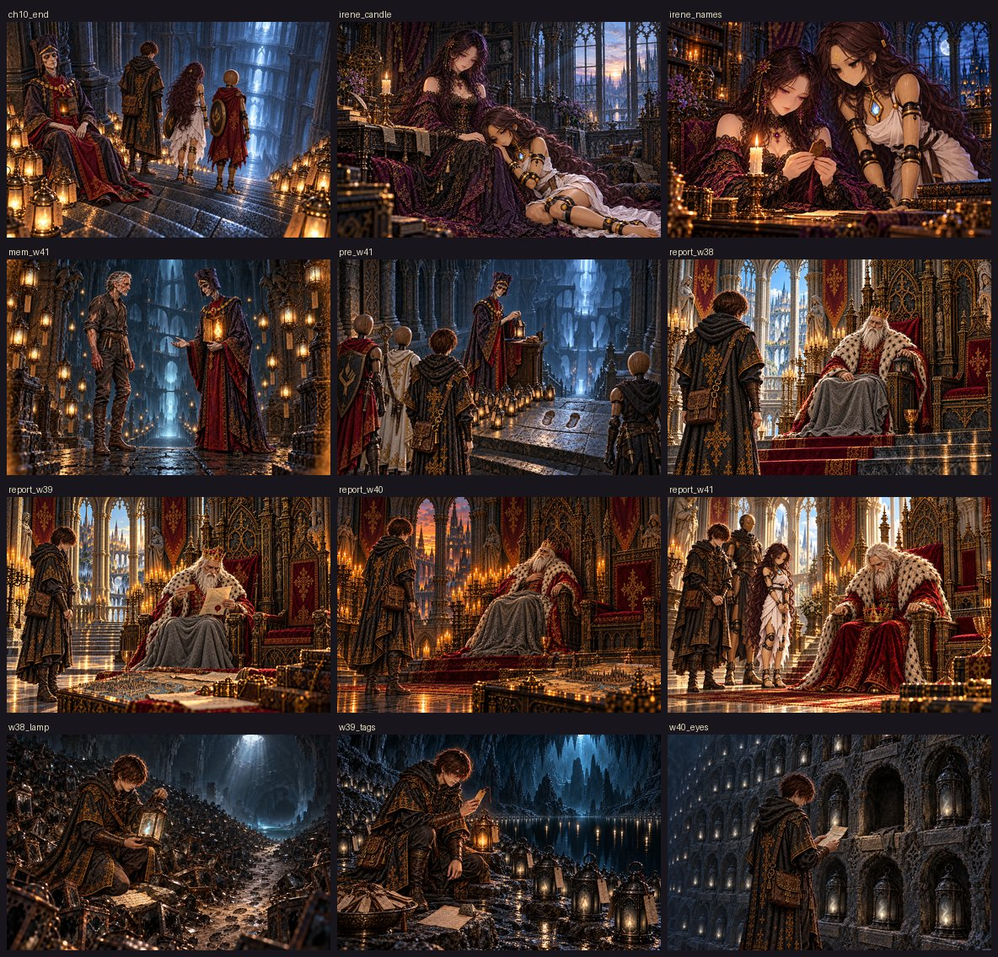
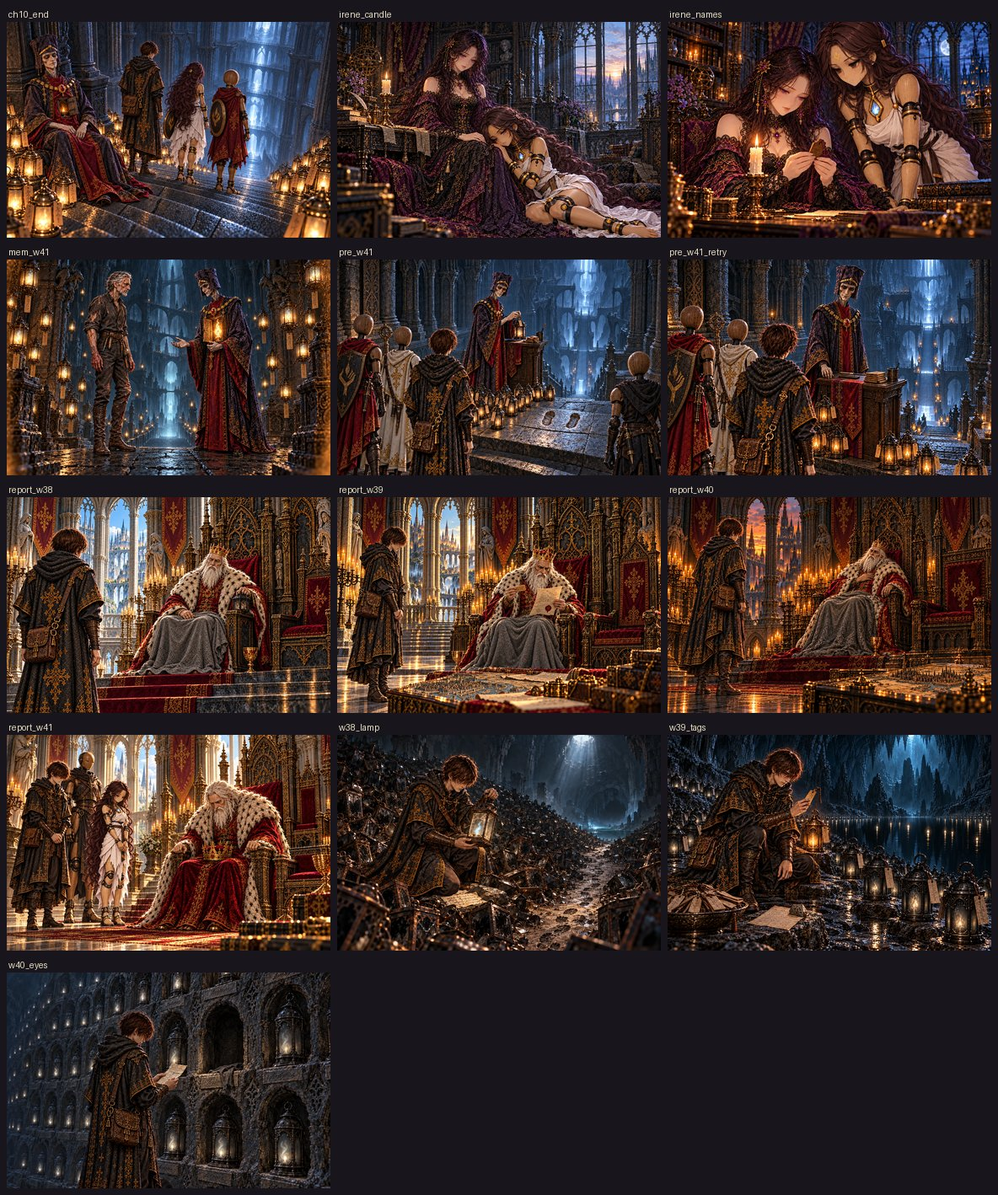
宰相への再挑戦「ふたたび階段の前で」に専用イラストを追加

diff --git a/src/archive-stories.js b/src/archive-stories.js
@@ -666,6 +666,11 @@ export const ARCHIVE_STORIES = [
     "湖の岸に並んでいた札の字。灯籠の山に毎日残されていた足跡。壁龕に名を刻んだ手。三つの手がかりが、ひとりの背中に重なった。宰相モルデンは書き終えた札を灯籠に結び、筆を置いて振り返った。",
     "師はもう、帰るために歩いてはいない。灯たちを失いたくないのなら戻れ。モルデンはそう告げて、三百年立ち続けた石段の前に立った。足もとの石は、ちょうど彼の靴の形にすり減っていた。",
   ]),
+  scene("pre_w41_retry", 10, "ふたたび階段の前で", beat("pre_w41_retry"), "cavern", "moldernBrush", [
+    "大伽藍の階段へ戻ると、モルデンは書見台の筆を置いた。前に来た時よりも、木札の束が少し厚くなっていた。隊を立て直している間も、彼はここで名を書き続けていたのだ。",
+    "砕けた器を直し、灯を戻してまで師に会いに来た。その思いを認めながら、宰相は道を開かなかった。弟子たちの灯を取り戻せる仕組みこそ、師が変えようとしているものなのだという。",
+    "戻る理由があるからこそ、通せない。モルデンの言葉を聞き、弟子はふたたび階段の前に立った。失ったものを取り戻して歩く自分の旅も、師の目指す先と無関係ではなかった。",
+  ]),
   scene("mem_w41", 10, "階段の前のふたり", beat("mem_w41"), "cavern", "deepStairs", [
     "大伽藍の最奥で膝をついた宰相の灯から、一年前の記憶が流れこんできた。さらに下へ続く階段の前で、モルデンと師が向かい合っていた。",
     "底に眠るものを手にすれば、あらゆる命を思うままにできる魂の王になる。師はそれを取りに来たと言った。器へ戻す術がある限り、魂は何度でも戻され、腐るまで使われる。だから巡りに限りを書き入れ、生き切った魂を誰も引き止められないようにする、と。",

diff --git a/src/game.js b/src/game.js
@@ -12031,9 +12031,11 @@ function playBossPrelude(id, done) {
   const p = bossPreludeFor(id);
   if (!p) return false;
   const w = worldState();
-  const photo = storyImage(p.def === BOSS_PRELUDES[id].first ? p.key : null);
+  const sceneId = p.def === BOSS_PRELUDES[id].first ? p.key : p.key + "_retry";
+  const photo = storyImage(sceneId);
   UI.playStoryChain([{ title: p.def.title, lines: storyLines(p.def.lines), art: p.def.art, photo, who: "none", kicker: "主との対面", btnLabel: "挑む" }], () => {
     w.beats[p.key] = 1;
+    w.beats[sceneId] = 1;
     autosave(true);
     if (done) done();
   });
@@ -18021,7 +18023,7 @@ const testScenes = [
     Object.entries(defs).map(([id, def]) => ({ ...def, id: group + ":" + id, kind: "story", group: label, name: label + "・" + def.title, who: ["cell", "memory", "rematch"].includes(group) ? "none" : "king",
       photo: storyImage(({ cell: id, late: id, memory: "mem_" + id, report: "report_" + id, chapter: "ch" + id + "_end" })[group]) }))),
   ...Object.entries(BOSS_PRELUDES).flatMap(([id, pre]) => ["first", "retry"].filter((k) => pre[k]).map((k) => ({ ...pre[k], id: `prelude:${id}_${k}`, kind: "story", group: "主との対面",
-    name: `主との対面・${pre[k].title}`, who: "none", photo: k === "first" ? storyImage("pre_" + id) : null }))),
+    name: `主との対面・${pre[k].title}`, who: "none", photo: storyImage("pre_" + id + (k === "retry" ? "_retry" : "")) }))),
   ...IRENE_BEATS.map((def) => ({ ...def, id: "irene:" + def.id, kind: "story", group: "館の語り", name: "館の語り・" + def.title, who: "irene", photo: storyImage(def.id) })),
   { ...MINE_PASS, id: "minePass", kind: "story", name: MINE_PASS.title, photo: storyImage("minePass") },
 ];

diff --git a/src/storyimages.js b/src/storyimages.js
@@ -121,6 +121,7 @@ export const STORY_IMAGES = {
   w40_eyes: "art/story/chapter10/w40_eyes.webp",
   report_w40: "art/story/chapter10/report_w40.webp",
   pre_w41: "art/story/chapter10/pre_w41.webp",
+  pre_w41_retry: "art/story/chapter10/pre_w41_retry.webp",
   mem_w41: "art/story/chapter10/mem_w41.webp",
   report_w41: "art/story/chapter10/report_w41.webp",
   irene_candle: "art/story/chapter10/irene_candle.webp",

diff --git a/sw.js b/sw.js
@@ -210,6 +210,7 @@ const ASSETS = [
   "./art/story/chapter10/w40_eyes.webp",
   "./art/story/chapter10/report_w40.webp",
   "./art/story/chapter10/pre_w41.webp",
+  "./art/story/chapter10/pre_w41_retry.webp",
   "./art/story/chapter10/mem_w41.webp",
   "./art/story/chapter10/report_w41.webp",
   "./art/story/chapter10/irene_candle.webp",

diff --git a/CLAUDE.md b/CLAUDE.md
@@ -164,7 +164,7 @@ The old linear 勅命 (one dungeon after another, D1-100 by layer) was replaced 
 
 イレーヌの初訪問の挨拶は「オルド様のお弟子さま。お待ちしておりました。」「わたしはイレーヌ。」とする。自己紹介に「です」を足さず、ほかの台詞の丁寧語や親しさによる変化は保つ。
 序盤の案内: 地下墓地の最深部でランタン未発見なら、踏破前の確認で同階の探索を促す。ロアダルは辺境の街で、地下墓地はロアダルの墓所の下。**王宮はロアダルの離宮** (2026-10-11 ユーザーの決定): 王の本来の玉座は王都にあり、王は長く王都の玉座を空けてロアダルの離宮に住む (表向きは静養、王都の政は宰相府が王の名で回してきた)。大樹の幹が至るのは王都の玉座の真下 — 物語の文では「この玉座」と言わない (画面の名前「王宮」はそのまま)。回廊の印で開く取水口は推奨Lv18〜21の寄り道として、修道院を先に追う案内を発見時・出撃画面に表示する。修道院の報告は収集品3種類の奉納と宝物庫での通行証受け取りを明示する。付け替え・融合の手ほどきは各2ページに短縮 (魂の区分の「魂の扱い方」ボタンは 2026-10 にユーザーの指示で削除)。主の記憶は読了時に閲覧済みを保存し、中断した未読の記憶は冒険再開時・王への報告前に再表示する。
-**Story (`src/story.js`)**: 王への踏破報告は `REPORTS[id].need` の手がかり発見が必要 (地下墓地 `w01`: 師のランタン `w01_lantern`、回廊 `w02`: 地下4階の師の印 `w02_sigil`、地下牢 `w07`: セラの頭 `w07_sera`)。未発見でも踏破記録は残し、目標・勅命・踏破の祝祭で必要な手がかりの階の探索を案内する。報告待ちでも必要な手がかりが未発見なら再出撃でき、発見後は再踏破せずに報告できる。別の迷宮を踏破しても報告待ちは上書きせず、未報告の踏破記録から次の報告を復元する。館の「セラの胴」は腕・頭・胴のすべての発見を必要とする (`IRENE_BEATS.need` は配列なら全条件)。 the player is 操霊師オルド's apprentice; Ordo vanished in the labyrinths a year ago, his mansion's candle (his soul-lamp) still burns, and **イレーヌ is a 人業 Ordo made** (revealed in chapter 1). Chapter 2: the fort's garrison was offered to the 「魂脈」 with the fort; the prison walls bear the names of past royal 操霊師 (Ordo's master ヴェルナー), Sera's head lies in the deepest cell (Irene keeps it by the candle — `irene_sera`), and the fort lord's memory shows the abandonment order sealed by the crown and the 宰相府 — the king then admits **he is the 「先代」 himself, kept alive a hundred years by the 魂脈** (the 宰相 never ages either). Chapter 3: the 魂脈 are the roots of a soul-eating tree planted 300 years ago by 宰相モルデン; Ordo's master ヴェルナー escaped the prison and died in a hut in the underground forest (`w11_hut`), Sera's torso lies in the sap bed (`irene_torso`), and the tree lord's memory shows Ordo cutting a root and climbing the hollow trunk toward the capital — the trunk ends under the throne. Chapter 4: under the capital lies the old capital, sunk 300 years ago; the young priest モルデン planted the seedling in the great temple's spring and drowned the priest-king's city when ordered to pull it out (the 壁画 `w15_mural` shows Moldern unchanged). Sera's legs lie in the baptism cistern (`w16_legs`) → the Irene beat `irene_sera_wake` (needs lantern + arm + head + torso + legs) puts the lantern's soul-fire into the reassembled body and **セラ joins as a companion** (below). The priest-king's memory: Ordo realized the heart is the cauldron that boils the sap, and went down to the fire cave. Chapter 5: the fire cave boils the sap into the king's elixir with the souls swallowed by the dungeons; burned husks of Moldern-faced dolls (`w19_husks`), the elixir ledger (`w20_cup`); the 業火の主's memory reveals **Moldern is a 人業 — the first doll made by 「最初の操霊師」** more than 300 years ago (never 「三百年前に作られた」 — 300 years ago is when he planted the seedling; his line 「主の命は一つ。『魂を集めよ』」 is his own paraphrase of the founder's order 「魂を、腐らせるな」, noticed in chapter 7 — user decision 2026-10-11) — and Ordo fell into the bottomless pit under the cauldron, 奈落 (his candle still burns). Chapter 6: the wind blowing up from 奈落 freezes falling souls onto ice ledges round the shaft; Ordo was caught there and broke a leg (his coat `w22_coat`); eleven of the twelve royal 操霊師 the king imprisoned (Moldern threw them into 奈落 and reported them executed) sit frozen in ice pillars, the twelfth pillar — Werner's — empty (`w23_names`); the aurora is souls held in the ice, which is a dam (`w24_aurora`); the 氷結回廊の主's memory: 凍王イザーク, the first royal 操霊師 300 years ago, saw the old lamp in Moldern's chest, froze 奈落 with himself as the dam, caught every falling soul (Ordo too) and told Ordo that **the first 操霊師 is the founder of their own lineage** (the lamp-craft is theirs alone — Irene's beat `irene_lineage`: her lamp, Sera's and Moldern's share it); Ordo, his leg set in ice, went on down to the swamp where the thawed water drains. Chapter 7: the meltwater falls into a swamp of rotted souls at the bottom of 奈落; Ordo, his ice splint melted, re-splinted his leg with the arms of a discarded doll (`w26_splint`); the valley holds heaps of unfinished dolls with the lineage crest (灯を掌に載せた手) — the first 操霊師 made and threw them away until only Moldern was finished (`w27_crest` → Irene beat `irene_crest`, Sera's rank +1); Ordo's antidote note (`w28_note`); the よどみの主's memory: on the swamp island's 灯の工房 the dying first 操霊師 ordered his only finished doll 「魂を、腐らせるな。落ちてくる魂を、二度とこの沼へ落とすな。そのためなら、何をしてもよい」 — the tree, the elixir and the cauldron were Moldern keeping that order; a year ago Ordo read the founder's diary there (「命じた者は死んだ。命令だけが、三百年、生き残った」) and climbed the storm-ringing tower behind the workshop; Irene's beat `irene_order` contrasts her own order 「灯を絶やすな」. Chapter 8: the tower behind the workshop is the founder's 「煙突」 to send fallen souls back to the sky; Ordo burned his walking stick (carved from the doll-arm splint) on the spiral stairs (`w30_stick`); the bell tower's bells carry the lineage crest and the inscription 「この鐘が鳴るたび、ひとつの魂が空へ還る」 with its continuation scraped off (`w31_bell` → Irene beat `irene_bell`: Ordo hummed the bells' tune); Ordo's copper lightning-guard note says lightning is the fire of bound souls (`w32_rod`); the 嵐の主's memory: the founder and his young doll built the tower; after the founder died the doll (Moldern) lit the great lighthouse at the top, the souls rose — and came back down as rain into the swamp and rotted (「還しても、雨になって落ちてくる。落ちれば、腐る」), so he put out the lighthouse and set chain-armed statues (魂縛りの像) to bind the rising souls; the bound souls became the storm that weighed on the kingdom's sky (and drew the fort's endless thunderstorm). A year ago Ordo smashed one statue (「巡りを止めたから、腐るのではないか」) and crossed the long stone bridge beyond the clouds toward a sunken stone amphitheatre, 「主の生まれた町は、あの橋の向こうか」. Defeating the boss clears the capital's sky (the king's first blue sky in his hundred years) and stops the fort's thunderstorm; Irene's beat `irene_rain` (rain = souls coming home). Chapter 9: beyond the bridge lies the ash-buried arena town above the clouds; the bridge was the prisoners' road (Ordo's scorched glove tied to a shackle ring `w34_glove`); under the arena, racks of numbered soul-lanterns — fallen gladiators' souls were put into lanterns and new bodies to fight again and again, and the lantern craft is older than the lineage's (`w35_lamps`); under the stands, a child's nook with a tiny wooden doll holding lantern glass and the lineage crest carved by a child (`w36_nook` → Irene beat `irene_firstdoll`, Sera's rank +1 → 5); the 闘技場の支配者's memory: **the founder was the arena's 灯番の子 (lantern-tending orphan)**; his friend's soul, reused thirteen times, forgot names and rotted in a blackened lantern thrown into the pit in the arena's centre (「魂は、休ませないと腐る」); the boy toppled the lantern racks and fled across the bridge with the craft notebook, the spilled soul-fire burned the town, and the showman put his own soul in a lantern and an empty armour (「試合は、終わらせぬ」). A year ago Ordo concluded 「休ませずに使い続けるから、腐る」 — Moldern is doing exactly what the founder fled — and climbed down the pit to find where discarded souls went. Irene's beat `irene_rest` ties this to 魂の安定度 (Ordo's rule of resting dolls). Chapter 10 (the end of part 1): under the arena's pit lies a vast cavern where blackened lanterns have piled up for millennia; Ordo polished one lantern — the soul inside still didn't remember its name, and someone's footprints walk the heaps every day (`w38_lamp`); on the black lake shore, every lantern carries a wooden name tag in Moldern's handwriting — he has been naming nameless souls for 300 years (`w39_tags` → Irene beat `irene_names`); the rock grotto is a grave of niches with carved names, and Ordo's note 「それでも、私は底へ行く」 (`w40_eyes`); at the bottom of the cavern-cathedral **宰相モルデン is the boss** (`bs_moldern`, w41): his memory shows him guarding the stairs down for 300 years because the founder told him not to touch what sleeps below — **whoever takes it becomes 「魂の王」, able to do as they please with every life** — and Ordo, a year ago, saying he came to take it (「命令では、誰も救えなかった」「巡りそのものを書き換える…そのためには、王がいる」) while Moldern answered that whoever rules life will use it up; Moldern couldn't stop him, asks 「わたしは、正しかったのでしょうか」 and falls asleep, his lamp small but lit. The king refuses to judge and tells the apprentice to decide with their own eyes; Irene's beat `irene_candle` asks whether keeping Ordo's candle is still right (she keeps it — to meet him again). `CHAPTER_END[10]` = 「第一部 完」. **第十章の結びの改め (2026-10-15 ユーザーの採用した筋)**: モルデンの本当の目的 = 善悪を問わず「魂の王」が生まれるのを防ぐこと (善意から始めても、一人があらゆる命を思うままにできれば他者の意思を奪う — 自分も「魂を守れ」という正しい言いつけから旧都を沈めた)。師の秘密 = 魂が生き切った後、誰にも引き止められず休める世界のため、魂を何度でも器へ戻せる仕組みに限りを書き入れる (イレーヌ・セラ・隊の人業にも及ぶ。大事な者だけを例外にしない。本人の声を聞く仕組みは「書けるかどうか、まだ分からん」— 第二部の論点)。人業がすぐ消える・復活の回数制限などのゲーム上の罰は作らない。**主との対面** (`BOSS_PRELUDES` in story.js → game.js `playBossPrelude`/`bossPreludeFor`、いまは w41 だけ): 主に挑む直前の語り。初めて挑む時に `first` を一度 (`world.beats.pre_<id>`)、その主との戦いで全滅すると (`markBossFell` が endBattle の負けで `world.beats.fell_<id>` を立てる。宿敵の再戦・無限迷宮は数えない) 討つまで挑むたびに短い `retry` (「砕けた器を直し、灯を戻して…」)。核心の開示は勝った後の主の記憶で共通。探索を省く試遊でも語る。試遊の場面「主との対面」。勝った後の記憶でモルデンは「勝ったから正しいのではありません」「あなたの灯に、尋ねてください。どのように、生きたいのか」と言い、眠る (消えない)。Chapter 11「夜明けの町」(第二部の始まり、layer-13 roster = 魔導書庫の魔物 — 町を囲む古い大書庫の本に、眠れなかった雨の魂がしみこんだもの): 大伽藍の階段の下に、人業が主を持つか・仕事・休む時を自分で選んで暮らす明るい町 (光は空ではなく、岩の天井いっぱいの吊り枠の「眠り灯」= 雨と一緒に流れ着いた魂を休ませる澄んだ灯籠)。住民の多くは王家の操霊師 (第六章の氷柱の十一人) の主をなくした人業。師は十か月前に来て魂の休ませ方と眠り灯の作り方を教えた救い主 (「オルド先生」)、三月前に大書庫の底の扉から下へ降りた。広場の「戻り灯の陣」(館の燭台を目印にした帰り道、『弟子が来たら、これで帰らせろ』) で町とロアダルを行き来する (住民も酒場へ上がってくる)。師の決まり「休んだ魂はもう器へ戻さない」と、雨受けのミラに一度だけ器を渡したこと (救われた者) / 友の灯の声を聞くヨルク (不安を持つ者)。迷宮: 書架の大階段 `w42` 10F Lv123-126 (report w41)「踏み外しの段」board shaft + ✦×1.25、clue `w42_dawn` (町への到着・子どもの姿の人業ピムが隊の人業に「どうしてその人について歩いているの？」と訊く — 弟子は代わりに答えない。答えは館の語り `irene_why` でセラが自分の言葉で) → opens w43 / 雨垂れの書庫 `w43` 10F Lv126-129 (story w42_dawn)「しみこむ雨」foeRegen 0.04 + victoryHeal 0.08、clue `w43_jars` (quest `fq_rainjar`) / 眠り灯の工房 `w44` 10F Lv129-132 (report w42)「熾火の炉」hpDrain 0.05 + 金貨×1.35、clue `w44_glass` (boon `rescue` = 連れ帰りの時 ×0.9、game.js `CLUE_RESCUE` → `rescueDurationMs`) / 大書庫 `w45` 15F Lv132-136 + 大書庫の主 `bs_archivist` (`{all: [w43, w44]}`)「読み手を逃さぬ書庫」noFlee + ✦×1.4。主の記憶: 自分を何度でも器へ戻して読み続けた司書と、余白に『ここに書かれた術には、終わりの頁がない』と書いた師 (司書「終わりを書かれたら、わたしは、もう読めないのか」)。司書の灯は消えず、町の眠り灯へ (目を覚ますかは灯が決める)。寄り道: 絵本の閲覧室 `ws23` 10F Lv125-129 (`fq_picturebook`、ロッテ)「読み聞かせの声」lull 0.4 + chestRankUp 1 / **格上** 閉架の書庫 `ws24` 15F Lv150-154 + 禁書の巨像 `bs_tomeguardian` (`fq_closedstacks`、ヨルク — 眠り灯の抜けた巻 = 師の王位に頼らない別の道)「閉架」sealedGate + ✦×1.3 + lootBonusLv 4。館の語り `irene_why` / `irene_onlyonce` (セラを連れ戻したことは間違いではない、眠る日を決めるのは自分であってほしい) / `irene_lastpage` (休ませたいも会いたいも両方持って行く)。章の結び `CHAPTER_END[11]` でミラとヨルクの両方の声を聞き、師が何を書こうとしているのかを確かめに行く (決着はつけない)。第十一章の結びの機能 `enchant` は仕組みがまだ無いので `FEATURES.enchant.pending` で閉じたまま (featureMet/featureNote)。名のある強敵 (layer 13 の首級・懸賞)・層の逸品 (catalog/layer13.js)・依頼人の肖像・第13層の魔物の固有の絵は未着手。**Story direction for part 2 (user, 2026-10-11)**: the final enemy is Ordo, but he has his reasons; the story asks 「正義とは何か・正しさとは何か」 — never write Ordo or Moldern as simply evil or good (story.js header). Still unrevealed: what sleeps below, the founder's name, how to undo the order. **Illustrations (`src/storyart.js`)**: 192×108 pixel art painted in code with pxpaint (Mask/Layer, 2D point lights, master-palette dither) — lantern / sigil / arm / abbot / camp / candle, chapter 2: roll (当直簿・軍議の卓) / cell (牢壁の名) / head (セラの頭) / banner (焼けた軍旗) / hole (本丸の大穴), chapter 3: rope (根に結ばれた綱) / hut (ヴェルナーの小屋) / torso (セラの胴) / tree (魂喰らいの大樹), chapter 4: votive (奉納の灯籠) / mural (神殿の壁画・若い神官 = モルデン) / legs (水槽の底の脚) / priestking (神官王の記憶) / sera (セラの目覚め・イレーヌ), chapter 5: blade (師の折れた刃) / husks (焼かれた人業の殻) / cup (霊薬の帳面) / cauldron (業火の大釜・モルデンの影), chapter 6: coat (氷棚の柱に掛かった師の外套) / frozen (氷柱の中の十一人・空の一本) / aurora (極光の書きつけ) / frostking (凍王の記憶) — 氷の場面は共通パレットに氷の青と極光の紫を足した `ICE_PAL` で量子化 (archive-art.js の氷の焦点も同じ), chapter 7: splint (沼の岸の溶けかけた氷の添え木と、縄で束ねた人業の腕の木・結び目の書きつけ・雪解けの滝) / crest (器の捨て場の山。開いた胸の扉の内側に一門の印、頂に膝へ札を載せた器) / reeds (毒霧の葦原の空き地。毒消しの書きつけ・葦の根・割れた小瓶) / swamplord (よどみの主の記憶: 沼の島の工房で瘴気に倒れた老いた操霊師と膝をつく若い人業、奥に嵐の鳴る塔) — 沼の場面は沼の緑・枯れ葦・濁り水を足した `SWAMP_PAL` で量子化 (archive-art.js の背景 `swamp` と焦点 splint / dollPile / miasmaNote / workshopIsle / tower も同じ), chapter 8: stick (螺旋の踊り場の焦げた杖) / bell (一門の印の大鐘) / rod (回廊の手すりの銅線と書きつけ) / stormlord (頂の火のない灯台と魂縛りの像の輪・雷雲の向こうの石橋と観客席) — 嵐の場面は `STORM_PAL` (archive-art.js の背景 `storm` と焦点 stick / bell / rodNote / beacon / bridge), chapter 9: glove (石橋の枷の輪に結ばれた焦げた手袋) / lamps (檻の奥の灯籠の棚) / nook (観客席の下の灯番の子の寝床と木の人形) / arenalord (燃える闘技場の町・倒れた灯籠の棚・橋へ逃げる子・金の仮面の興行主) — 灰と熾火の `ARENA_PAL` (archive-art.js の背景 `arena` と焦点 glove / lampRack / dollNook / lampRing / pit); cached, prewarmed at idle; check new ones by rendering at 4× in Chromium (scratchpad harness) before shipping.
+**Story (`src/story.js`)**: 王への踏破報告は `REPORTS[id].need` の手がかり発見が必要 (地下墓地 `w01`: 師のランタン `w01_lantern`、回廊 `w02`: 地下4階の師の印 `w02_sigil`、地下牢 `w07`: セラの頭 `w07_sera`)。未発見でも踏破記録は残し、目標・勅命・踏破の祝祭で必要な手がかりの階の探索を案内する。報告待ちでも必要な手がかりが未発見なら再出撃でき、発見後は再踏破せずに報告できる。別の迷宮を踏破しても報告待ちは上書きせず、未報告の踏破記録から次の報告を復元する。館の「セラの胴」は腕・頭・胴のすべての発見を必要とする (`IRENE_BEATS.need` は配列なら全条件)。 the player is 操霊師オルド's apprentice; Ordo vanished in the labyrinths a year ago, his mansion's candle (his soul-lamp) still burns, and **イレーヌ is a 人業 Ordo made** (revealed in chapter 1). Chapter 2: the fort's garrison was offered to the 「魂脈」 with the fort; the prison walls bear the names of past royal 操霊師 (Ordo's master ヴェルナー), Sera's head lies in the deepest cell (Irene keeps it by the candle — `irene_sera`), and the fort lord's memory shows the abandonment order sealed by the crown and the 宰相府 — the king then admits **he is the 「先代」 himself, kept alive a hundred years by the 魂脈** (the 宰相 never ages either). Chapter 3: the 魂脈 are the roots of a soul-eating tree planted 300 years ago by 宰相モルデン; Ordo's master ヴェルナー escaped the prison and died in a hut in the underground forest (`w11_hut`), Sera's torso lies in the sap bed (`irene_torso`), and the tree lord's memory shows Ordo cutting a root and climbing the hollow trunk toward the capital — the trunk ends under the throne. Chapter 4: under the capital lies the old capital, sunk 300 years ago; the young priest モルデン planted the seedling in the great temple's spring and drowned the priest-king's city when ordered to pull it out (the 壁画 `w15_mural` shows Moldern unchanged). Sera's legs lie in the baptism cistern (`w16_legs`) → the Irene beat `irene_sera_wake` (needs lantern + arm + head + torso + legs) puts the lantern's soul-fire into the reassembled body and **セラ joins as a companion** (below). The priest-king's memory: Ordo realized the heart is the cauldron that boils the sap, and went down to the fire cave. Chapter 5: the fire cave boils the sap into the king's elixir with the souls swallowed by the dungeons; burned husks of Moldern-faced dolls (`w19_husks`), the elixir ledger (`w20_cup`); the 業火の主's memory reveals **Moldern is a 人業 — the first doll made by 「最初の操霊師」** more than 300 years ago (never 「三百年前に作られた」 — 300 years ago is when he planted the seedling; his line 「主の命は一つ。『魂を集めよ』」 is his own paraphrase of the founder's order 「魂を、腐らせるな」, noticed in chapter 7 — user decision 2026-10-11) — and Ordo fell into the bottomless pit under the cauldron, 奈落 (his candle still burns). Chapter 6: the wind blowing up from 奈落 freezes falling souls onto ice ledges round the shaft; Ordo was caught there and broke a leg (his coat `w22_coat`); eleven of the twelve royal 操霊師 the king imprisoned (Moldern threw them into 奈落 and reported them executed) sit frozen in ice pillars, the twelfth pillar — Werner's — empty (`w23_names`); the aurora is souls held in the ice, which is a dam (`w24_aurora`); the 氷結回廊の主's memory: 凍王イザーク, the first royal 操霊師 300 years ago, saw the old lamp in Moldern's chest, froze 奈落 with himself as the dam, caught every falling soul (Ordo too) and told Ordo that **the first 操霊師 is the founder of their own lineage** (the lamp-craft is theirs alone — Irene's beat `irene_lineage`: her lamp, Sera's and Moldern's share it); Ordo, his leg set in ice, went on down to the swamp where the thawed water drains. Chapter 7: the meltwater falls into a swamp of rotted souls at the bottom of 奈落; Ordo, his ice splint melted, re-splinted his leg with the arms of a discarded doll (`w26_splint`); the valley holds heaps of unfinished dolls with the lineage crest (灯を掌に載せた手) — the first 操霊師 made and threw them away until only Moldern was finished (`w27_crest` → Irene beat `irene_crest`, Sera's rank +1); Ordo's antidote note (`w28_note`); the よどみの主's memory: on the swamp island's 灯の工房 the dying first 操霊師 ordered his only finished doll 「魂を、腐らせるな。落ちてくる魂を、二度とこの沼へ落とすな。そのためなら、何をしてもよい」 — the tree, the elixir and the cauldron were Moldern keeping that order; a year ago Ordo read the founder's diary there (「命じた者は死んだ。命令だけが、三百年、生き残った」) and climbed the storm-ringing tower behind the workshop; Irene's beat `irene_order` contrasts her own order 「灯を絶やすな」. Chapter 8: the tower behind the workshop is the founder's 「煙突」 to send fallen souls back to the sky; Ordo burned his walking stick (carved from the doll-arm splint) on the spiral stairs (`w30_stick`); the bell tower's bells carry the lineage crest and the inscription 「この鐘が鳴るたび、ひとつの魂が空へ還る」 with its continuation scraped off (`w31_bell` → Irene beat `irene_bell`: Ordo hummed the bells' tune); Ordo's copper lightning-guard note says lightning is the fire of bound souls (`w32_rod`); the 嵐の主's memory: the founder and his young doll built the tower; after the founder died the doll (Moldern) lit the great lighthouse at the top, the souls rose — and came back down as rain into the swamp and rotted (「還しても、雨になって落ちてくる。落ちれば、腐る」), so he put out the lighthouse and set chain-armed statues (魂縛りの像) to bind the rising souls; the bound souls became the storm that weighed on the kingdom's sky (and drew the fort's endless thunderstorm). A year ago Ordo smashed one statue (「巡りを止めたから、腐るのではないか」) and crossed the long stone bridge beyond the clouds toward a sunken stone amphitheatre, 「主の生まれた町は、あの橋の向こうか」. Defeating the boss clears the capital's sky (the king's first blue sky in his hundred years) and stops the fort's thunderstorm; Irene's beat `irene_rain` (rain = souls coming home). Chapter 9: beyond the bridge lies the ash-buried arena town above the clouds; the bridge was the prisoners' road (Ordo's scorched glove tied to a shackle ring `w34_glove`); under the arena, racks of numbered soul-lanterns — fallen gladiators' souls were put into lanterns and new bodies to fight again and again, and the lantern craft is older than the lineage's (`w35_lamps`); under the stands, a child's nook with a tiny wooden doll holding lantern glass and the lineage crest carved by a child (`w36_nook` → Irene beat `irene_firstdoll`, Sera's rank +1 → 5); the 闘技場の支配者's memory: **the founder was the arena's 灯番の子 (lantern-tending orphan)**; his friend's soul, reused thirteen times, forgot names and rotted in a blackened lantern thrown into the pit in the arena's centre (「魂は、休ませないと腐る」); the boy toppled the lantern racks and fled across the bridge with the craft notebook, the spilled soul-fire burned the town, and the showman put his own soul in a lantern and an empty armour (「試合は、終わらせぬ」). A year ago Ordo concluded 「休ませずに使い続けるから、腐る」 — Moldern is doing exactly what the founder fled — and climbed down the pit to find where discarded souls went. Irene's beat `irene_rest` ties this to 魂の安定度 (Ordo's rule of resting dolls). Chapter 10 (the end of part 1): under the arena's pit lies a vast cavern where blackened lanterns have piled up for millennia; Ordo polished one lantern — the soul inside still didn't remember its name, and someone's footprints walk the heaps every day (`w38_lamp`); on the black lake shore, every lantern carries a wooden name tag in Moldern's handwriting — he has been naming nameless souls for 300 years (`w39_tags` → Irene beat `irene_names`); the rock grotto is a grave of niches with carved names, and Ordo's note 「それでも、私は底へ行く」 (`w40_eyes`); at the bottom of the cavern-cathedral **宰相モルデン is the boss** (`bs_moldern`, w41): his memory shows him guarding the stairs down for 300 years because the founder told him not to touch what sleeps below — **whoever takes it becomes 「魂の王」, able to do as they please with every life** — and Ordo, a year ago, saying he came to take it (「命令では、誰も救えなかった」「巡りそのものを書き換える…そのためには、王がいる」) while Moldern answered that whoever rules life will use it up; Moldern couldn't stop him, asks 「わたしは、正しかったのでしょうか」 and falls asleep, his lamp small but lit. The king refuses to judge and tells the apprentice to decide with their own eyes; Irene's beat `irene_candle` asks whether keeping Ordo's candle is still right (she keeps it — to meet him again). `CHAPTER_END[10]` = 「第一部 完」. **第十章の結びの改め (2026-10-15 ユーザーの採用した筋)**: モルデンの本当の目的 = 善悪を問わず「魂の王」が生まれるのを防ぐこと (善意から始めても、一人があらゆる命を思うままにできれば他者の意思を奪う — 自分も「魂を守れ」という正しい言いつけから旧都を沈めた)。師の秘密 = 魂が生き切った後、誰にも引き止められず休める世界のため、魂を何度でも器へ戻せる仕組みに限りを書き入れる (イレーヌ・セラ・隊の人業にも及ぶ。大事な者だけを例外にしない。本人の声を聞く仕組みは「書けるかどうか、まだ分からん」— 第二部の論点)。人業がすぐ消える・復活の回数制限などのゲーム上の罰は作らない。**主との対面** (`BOSS_PRELUDES` in story.js → game.js `playBossPrelude`/`bossPreludeFor`、いまは w41 だけ): 主に挑む直前の語り。初めて挑む時に `first` を一度 (`world.beats.pre_<id>`)、その主との戦いで全滅すると (`markBossFell` が endBattle の負けで `world.beats.fell_<id>` を立てる。宿敵の再戦・無限迷宮は数えない) 討つまで挑むたびに短い `retry` (「砕けた器を直し、灯を戻して…」)。核心の開示は勝った後の主の記憶で共通。探索を省く試遊でも語る。試遊の場面「主との対面」。初対面は `pre_<id>`、再挑戦は `pre_<id>_retry` の専用絵を表示し、再挑戦の語りを聞いた記録も別に残す。ストーリー一覧の再挑戦場面は `world.beats.pre_<id>_retry` で解放する。勝った後の記憶でモルデンは「勝ったから正しいのではありません」「あなたの灯に、尋ねてください。どのように、生きたいのか」と言い、眠る (消えない)。Chapter 11「夜明けの町」(第二部の始まり、layer-13 roster = 魔導書庫の魔物 — 町を囲む古い大書庫の本に、眠れなかった雨の魂がしみこんだもの): 大伽藍の階段の下に、人業が主を持つか・仕事・休む時を自分で選んで暮らす明るい町 (光は空ではなく、岩の天井いっぱいの吊り枠の「眠り灯」= 雨と一緒に流れ着いた魂を休ませる澄んだ灯籠)。住民の多くは王家の操霊師 (第六章の氷柱の十一人) の主をなくした人業。師は十か月前に来て魂の休ませ方と眠り灯の作り方を教えた救い主 (「オルド先生」)、三月前に大書庫の底の扉から下へ降りた。広場の「戻り灯の陣」(館の燭台を目印にした帰り道、『弟子が来たら、これで帰らせろ』) で町とロアダルを行き来する (住民も酒場へ上がってくる)。師の決まり「休んだ魂はもう器へ戻さない」と、雨受けのミラに一度だけ器を渡したこと (救われた者) / 友の灯の声を聞くヨルク (不安を持つ者)。迷宮: 書架の大階段 `w42` 10F Lv123-126 (report w41)「踏み外しの段」board shaft + ✦×1.25、clue `w42_dawn` (町への到着・子どもの姿の人業ピムが隊の人業に「どうしてその人について歩いているの？」と訊く — 弟子は代わりに答えない。答えは館の語り `irene_why` でセラが自分の言葉で) → opens w43 / 雨垂れの書庫 `w43` 10F Lv126-129 (story w42_dawn)「しみこむ雨」foeRegen 0.04 + victoryHeal 0.08、clue `w43_jars` (quest `fq_rainjar`) / 眠り灯の工房 `w44` 10F Lv129-132 (report w42)「熾火の炉」hpDrain 0.05 + 金貨×1.35、clue `w44_glass` (boon `rescue` = 連れ帰りの時 ×0.9、game.js `CLUE_RESCUE` → `rescueDurationMs`) / 大書庫 `w45` 15F Lv132-136 + 大書庫の主 `bs_archivist` (`{all: [w43, w44]}`)「読み手を逃さぬ書庫」noFlee + ✦×1.4。主の記憶: 自分を何度でも器へ戻して読み続けた司書と、余白に『ここに書かれた術には、終わりの頁がない』と書いた師 (司書「終わりを書かれたら、わたしは、もう読めないのか」)。司書の灯は消えず、町の眠り灯へ (目を覚ますかは灯が決める)。寄り道: 絵本の閲覧室 `ws23` 10F Lv125-129 (`fq_picturebook`、ロッテ)「読み聞かせの声」lull 0.4 + chestRankUp 1 / **格上** 閉架の書庫 `ws24` 15F Lv150-154 + 禁書の巨像 `bs_tomeguardian` (`fq_closedstacks`、ヨルク — 眠り灯の抜けた巻 = 師の王位に頼らない別の道)「閉架」sealedGate + ✦×1.3 + lootBonusLv 4。館の語り `irene_why` / `irene_onlyonce` (セラを連れ戻したことは間違いではない、眠る日を決めるのは自分であってほしい) / `irene_lastpage` (休ませたいも会いたいも両方持って行く)。章の結び `CHAPTER_END[11]` でミラとヨルクの両方の声を聞き、師が何を書こうとしているのかを確かめに行く (決着はつけない)。第十一章の結びの機能 `enchant` は仕組みがまだ無いので `FEATURES.enchant.pending` で閉じたまま (featureMet/featureNote)。名のある強敵 (layer 13 の首級・懸賞)・層の逸品 (catalog/layer13.js)・依頼人の肖像・第13層の魔物の固有の絵は未着手。**Story direction for part 2 (user, 2026-10-11)**: the final enemy is Ordo, but he has his reasons; the story asks 「正義とは何か・正しさとは何か」 — never write Ordo or Moldern as simply evil or good (story.js header). Still unrevealed: what sleeps below, the founder's name, how to undo the order. **Illustrations (`src/storyart.js`)**: 192×108 pixel art painted in code with pxpaint (Mask/Layer, 2D point lights, master-palette dither) — lantern / sigil / arm / abbot / camp / candle, chapter 2: roll (当直簿・軍議の卓) / cell (牢壁の名) / head (セラの頭) / banner (焼けた軍旗) / hole (本丸の大穴), chapter 3: rope (根に結ばれた綱) / hut (ヴェルナーの小屋) / torso (セラの胴) / tree (魂喰らいの大樹), chapter 4: votive (奉納の灯籠) / mural (神殿の壁画・若い神官 = モルデン) / legs (水槽の底の脚) / priestking (神官王の記憶) / sera (セラの目覚め・イレーヌ), chapter 5: blade (師の折れた刃) / husks (焼かれた人業の殻) / cup (霊薬の帳面) / cauldron (業火の大釜・モルデンの影), chapter 6: coat (氷棚の柱に掛かった師の外套) / frozen (氷柱の中の十一人・空の一本) / aurora (極光の書きつけ) / frostking (凍王の記憶) — 氷の場面は共通パレットに氷の青と極光の紫を足した `ICE_PAL` で量子化 (archive-art.js の氷の焦点も同じ), chapter 7: splint (沼の岸の溶けかけた氷の添え木と、縄で束ねた人業の腕の木・結び目の書きつけ・雪解けの滝) / crest (器の捨て場の山。開いた胸の扉の内側に一門の印、頂に膝へ札を載せた器) / reeds (毒霧の葦原の空き地。毒消しの書きつけ・葦の根・割れた小瓶) / swamplord (よどみの主の記憶: 沼の島の工房で瘴気に倒れた老いた操霊師と膝をつく若い人業、奥に嵐の鳴る塔) — 沼の場面は沼の緑・枯れ葦・濁り水を足した `SWAMP_PAL` で量子化 (archive-art.js の背景 `swamp` と焦点 splint / dollPile / miasmaNote / workshopIsle / tower も同じ), chapter 8: stick (螺旋の踊り場の焦げた杖) / bell (一門の印の大鐘) / rod (回廊の手すりの銅線と書きつけ) / stormlord (頂の火のない灯台と魂縛りの像の輪・雷雲の向こうの石橋と観客席) — 嵐の場面は `STORM_PAL` (archive-art.js の背景 `storm` と焦点 stick / bell / rodNote / beacon / bridge), chapter 9: glove (石橋の枷の輪に結ばれた焦げた手袋) / lamps (檻の奥の灯籠の棚) / nook (観客席の下の灯番の子の寝床と木の人形) / arenalord (燃える闘技場の町・倒れた灯籠の棚・橋へ逃げる子・金の仮面の興行主) — 灰と熾火の `ARENA_PAL` (archive-art.js の背景 `arena` と焦点 glove / lampRack / dollNook / lampRing / pit); cached, prewarmed at idle; check new ones by rendering at 4× in Chromium (scratchpad harness) before shipping.
 **手がかりの恵み (`STORY_CELLS[key].boon = {kind, text}`, 2026-10 user direction: every clue pays off — except the first clue 師のランタン, which has none)**: game.js `clueBoon(kind)` reads `world.found` each time (so boons added later also apply to old saves; `irene_boons` (flag `world.boonsIntro`) tells old saves once in the mansion). kinds: `dungeon` (unlock `{story}`: w02_sigil→w04, w06_roll→w07, w09_map→ws5, w10_rope→w11, w14_lamp→w15, w18_blade→w19) / `quest` (`appear: {found}`: w07_names→`fq_cellnames`, w08_banner→`fq_garrison`, w11_hut→`fq_elsa`, w15_mural→`fq_archive`) / `repair` (w04_arm: mansion repair cost −10% — `repairCostOf`) / `soulEcho` (w07_sera: a job soul picked up in a dungeon is doubled with `SOUL_ECHO_RATE` 5% — `grantSoulQuiet`) / `evade` (w12_torso: every party member's evasion vs enemy physical +1% — combat.js `setPartyEvadeBonus`, set by `syncClueBoons`) / `sera` (w16_legs) / `seraRank` (w19_husks: Sera's 灯守 rank +1 via the `irene_husks` beat) / `elixir` (w20_cup: the shop always stocks 命の泉の水・満月の井戸水・霊薬エリクシル — `restockElixirs` on return / boon) / `emberEcho` (w24_aurora: embers from a corpse are doubled with `EMBER_ECHO_RATE` 10% — `emberEcho` in `emberReward` and the weathered-corpse ember). Chapter 6 also adds `dungeon` w22_coat→w23 and `quest` w23_names→`fq_thaw`; chapter 7 adds `dungeon` w26_splint→w27, `seraRank` w27_crest (via `irene_crest`, in `SERA_RANK_BEATS`) and `miasma` (w28_note: poison-floor damage halved, stacks with 毒床耐性 Lv1); `fq_dollmaker` appears on `{found: w27_crest}`; chapter 8 adds `dungeon` w30_stick→w31, `quest` w31_bell→`fq_bellcast` and `breathWard` (w32_rod: every party member's breath resistance +5%, summed with gear up to `BREATH_RES_CAP` 50% — combat.js `setPartyBreathBonus`/`partyBreathRes`, set by `syncClueBoons`; it also softens the 落雷 of w33). Chapter 8 has no Sera rank-up; chapter 9 adds `dungeon` w34_glove→w35, `quest` w35_lamps→`fq_lampmaker` and `seraRank` w36_nook (via `irene_firstdoll`, in `SERA_RANK_BEATS`) — Sera reaches rank 5 (the max). Chapter 10 adds `dungeon` w38_lamp→w39, `quest` w39_tags→`fq_scribe` and `eyes` (w40_eyes: every party member's physical miss chance −2 points — combat.js `setPartyHitBonus`, set by `syncClueBoons`). `runStoryCell` appends 「── 手がかりの恵み: …」 to the clue's lines for non-dungeon boons. Keep effects small (user: stability-rate boons were too strong) and don't duplicate a job passive (e.g. 踏破の地図). **Keep this rule for new clues: give each one a `boon`.**
 **セラ (師の作った人業, 2026-10 user direction: Sera is a companion with her own job)**: `seraJoin()` (IRENE_BEATS `effect: "seraJoin"`) makes a doll named セラ (`doll.vessel = "sera"`) whose **main soul is fixed to her own job 灯守 (`sera`, souls.js `SOUL_CLASSES.sera`, rarity `unique`, `isUniqueJob`)** — joins the party if there is room (else the reserve), soul Lv = the party's average main-soul Lv capped at rank 1's cap. 灯守 = 守り手 (jobkit/sera.js: 庇い立ち / 灯の大盾 (Lv40 signature) / 身代わりの灯 / 魂守り… light & water blades; Lv15 目玉 `seraKago` 灯の加護 = party damage −6/9/12% while she lives; ランクのパッシブ `seraMunebi` 胸の魂火 = battle-start barrier (+regen)). **Rank comes from the story, not fusion**: rarity `unique` has `RANKUP_NEED [1,1,1,1]` (count = rank) and `seraRankTarget()` = 1 + the beats in `SERA_RANK_BEATS` (`irene_husks` w19 clue, `irene_abyss` ch5 end; chapters 6+ add more) → `syncSeraSoul` (on load and after `effect: "seraRank"` beats → `showRankUp`); Lv via ✦Soul like any soul (caps `RARITY_LEVEL_CAPS.unique` 60/80/100/120/140, `LEVELCAP_PER_SOUL.unique` 20); **past the rank cap she grows with 魂の残火** (2026-10 user direction — the other jobs keep growing by fusion, her count stops at 5): `EMBER_PER_CAP.unique` 1 ember = Lv cap +1, and every ember-raised level she has actually reached adds `EMBER_STAT_UP.unique` 0.2% of the base (souls.js `emberStatSteps` = min(capBonus, Lv − the rank cap) → `jobStatsOf`; raising the cap ahead of her Lv adds nothing, so embers can't be dumped into stats). Shown in the soul card / 強化 sheet / ember confirm (soulpanel.js `emberCapLines`) and the job codex; tavern tip `t_seraember`, help topic `sera` 「灯守セラの育て方」 (journal.js, after `irene_sera_wake`), Irene hint `h_seraEmber` (while her soul sits at its Lv cap). Exclusivity: `soulRepresentatives` drops unique souls (no doll creation / main picker / fusion / Order), the sub picker filters them, `soulSlotConflict` → `seraSlotBlocked` (灯守 only in Sera's main slot; Sera's main slot can't change), `equipSoulToSlot` refuses with a toast; her main tile shows 「セラだけの魂 (付け替え不可)」 and opens the job codex. **Sub souls are free.** Portrait fixed to 灯守 art (`dollLook` ignores `face`; 面影 disabled for her) — currently the 12×12 `JOB_ARTS.sera` placeholder until the user's R1-R5 originals arrive (then add `JOB_PHOTOS.sera` via `tools/jobimg.py`, standard in docs/art/job-art-standard.md). Vessel: same stability cost as other dolls; portrait badge 「灯」 (`.vessel-sera`). Old saves where Sera hosted another soul are moved onto a 灯守 soul by `syncSeraSoul`. Story lines may use `セラ「…」` (ui/story.js line kind `sera`). IRENE_BEATS fields: `beat` (another beat first), `flag`, `effect` (`seraJoin` / `seraRank`). `storyCtx` has `beat(k)`.
 **毒の継続ダメージ**: 通常の毒は技・パッシブ・敵の攻撃・戦闘外とも最大HPの5%に統一。猛毒は独立した異常ではなく `poison` の強い割合 (`_poisonPct`) として実装済みで、猛毒と明記された技は10%に統一（旧セーブの強い毒も10%）。主への猛毒は5%、通常毒は主にも5%。

diff --git a/art/story-review/review/chapter10.md b/art/story-review/review/chapter10.md
@@ -242,10 +242,60 @@
 >
 > 師はもう、帰るために歩いてはいない。灯たちを失いたくないのなら戻れ。モルデンはそう告げて、三百年立ち続けた石段の前に立った。足もとの石は、ちょうど彼の靴の形にすり減っていた。
 
+**ゲーム内 (主との対面 BOSS_PRELUDES.w41.first)**
+
+> 伽藍のいちばん奥に、さらに下へ続く広い石段があった。その手前に、小さな書見台がひとつ置かれている。
+>
+> 書見台の前に、痩せた長身の男が立っていた。宰相の黒い長衣。細い筆で、小さな木札に何かを書いている。
+>
+> 足もとには、濁った灯籠が行儀よく並んでいた。どの灯籠にも、同じ字の札が結ばれている。湖の岸の札。灯籠の山を毎日歩いた足跡。壁龕に名を刻んだ手。……すべて、目の前の男のものだった。
+>
+> 男は最後の一画を書き終えると、筆を置き、札を灯籠に結んだ。それから、ゆっくりとこちらを向いた。
+>
+> 宰相モルデンは、初めて玉座の間で会った時と少しも変わらない顔で、薄く笑った。
+>
+> モルデン「ここから先へは、行かせません」
+>
+> モルデン「師を迎えに来たのでしょう。……あの方はもう、帰るために歩いてはいない」
+>
+> モルデンは書見台を離れ、階段の前に立った。三百年、そこに立ち続けた石が、足の形にすり減っていた。
+>
+> モルデン「お戻りなさい。その灯たちを、まだ失いたくないのなら」
+
 **指示書 (4章)**
 
 - 要点: 大伽藍のいちばん奥、さらに下へ降りる石段の手前に小さな書見台。痩せた長身の宰相モルデンが細い筆で木札に名を書き終え、筆を置き、札を灯籠に結んで振り返る。足もとに名札つきの濁った灯籠が行儀よく並ぶ (湖の札・灯籠の山の足跡・壁龕の名と同じ手)。石段の前の石は、三百年立ち続けた足の形にすり減っている。「ここから先へは、行かせません」。敵意ではなく、静かな拒み。
 - 描くもの: 書見台・筆・木札 / 名札つきの灯籠の列 / 石段の前に立つモルデン (正典の顔、胸の扉は閉じている) / 手前に立つ弟子と隊の後ろ姿。描かないもの: 師。底のものの正体 (光だけ)。
+
+<a name="pre_w41_retry"></a>
+
+## pre_w41_retry「ふたたび階段の前で」 ── 出荷済み
+
+<img src="../../../art/story/chapter10/pre_w41_retry.webp" width="576" alt="pre_w41_retry">
+
+**ストーリー一覧の本文**
+
+> 大伽藍の階段へ戻ると、モルデンは書見台の筆を置いた。前に来た時よりも、木札の束が少し厚くなっていた。隊を立て直している間も、彼はここで名を書き続けていたのだ。
+>
+> 砕けた器を直し、灯を戻してまで師に会いに来た。その思いを認めながら、宰相は道を開かなかった。弟子たちの灯を取り戻せる仕組みこそ、師が変えようとしているものなのだという。
+>
+> 戻る理由があるからこそ、通せない。モルデンの言葉を聞き、弟子はふたたび階段の前に立った。失ったものを取り戻して歩く自分の旅も、師の目指す先と無関係ではなかった。
+
+**ゲーム内 (主との対面 BOSS_PRELUDES.w41.retry)**
+
+> 階段の前で、モルデンは筆を置いた。書見台の札の束が、少しだけ厚くなっていた。
+>
+> モルデン「……また、来られたのですか」
+>
+> モルデン「砕けた器を直し、灯を戻して。それほどまでに、あの方に会いたい」
+>
+> モルデン「ならば、なおさら通せません。あの方が変えようとしているのは、あなたが灯を戻せる、その仕組みなのです」
+
+**指示書 (4章)**
+
+- 要点: 同じ大伽藍の階段前。モルデンが筆を置き、砕けた器を直して戻った弟子たちを見る。書見台の木札の束は、初対面の時より少し厚い。
+- 描くもの: 初対面の絵と同じモルデン・書見台・石段・濁った灯籠 / 増えた木札の束と置いた細筆 / 弟子と修復済みの人業2体。
+- 描かないもの: 師オルド、イレーヌ、セラ、壊れた体や遺体、戦闘中の攻撃、開いた胸の扉、読める文字。場面は地下なので空は描かない。
 
 <a name="mem_w41"></a>
 

diff --git a/docs/art/codex-story-art-brief.md b/docs/art/codex-story-art-brief.md
@@ -1010,6 +1010,14 @@ A towering cavern wall carved with hundreds of small niches rising tier upon tie
 The same throne room at dusk, orange sky outside. The very old king leans back on the throne, eyes half-closed, one hand over his heart as if mourning, speaking quietly to himself. The chancellor's chair stands empty. The apprentice stands below.
 ```
 
+**pre_w41_retry「ふたたび階段の前で」** (主との対面 / 宰相モルデン。全滅後の再挑戦)
+- 要点: 同じ大伽藍の階段前。モルデンが筆を置き、砕けた器を直して戻った弟子たちを見る。書見台の木札の束は、初対面の時より少し厚い。
+- 描くもの: 初対面の絵と同じモルデン・書見台・石段・濁った灯籠 / 増えた木札の束と置いた細筆 / 弟子と修復済みの人業2体。
+- 描かないもの: 師オルド、イレーヌ、セラ、壊れた体や遺体、戦闘中の攻撃、開いた胸の扉、読める文字。場面は地下なので空は描かない。
+```text
+Return to the same deep underground gothic cathedral stairway as the approved first-encounter illustration. This is a NEW medium-close composition for a SECOND encounter: Chancellor Morden has just laid his slender writing brush horizontally on the small dark carved wooden lectern, beside a noticeably thicker short stack of small wooden name tags. The brush is resting flat, not held or floating; make the tags and brush clearly readable as objects in the center foreground at 384x256. Morden stands behind the lectern at the entrance to the descending stone stairs and looks directly toward the returning apprentice with a restrained, grave expression and the faintest thin smile, neither villainous nor saintly. Match his approved character reference exactly: tall lean figure, long gaunt pale face, dark sunken eyes, tall black-purple ceremonial hat with a gold band, dark black-purple gold-embroidered long robe with red inner robe and a heavy gold chain of office with a red jewel. His chest remains covered. One natural empty hand rests on the edge of the lectern and the other hangs at his side. In the near left foreground, the apprentice is seen from the back and three-quarter profile, tousled brown hair, charcoal-black traveling cloak with geometric gold embroidery and a brown leather crossbody satchel at the left hip. Behind the apprentice stand just TWO repaired adult-sized wooden party dolls, a red-cloaked warrior and a white-robed priest, both intact with smooth blank round wooden heads without eyes, mouth or ears and black iron joint bands. Keep the apprentice and companions smaller than Morden, giving him, the brush and increased name-tag stack visual priority. A few cloudy lanterns with dim amber light and tied wooden tags stand in orderly rows beside the same lectern; tags contain only illegible tiny marks. The same worn stone stairs descend into a vast shadowed cathedral beyond him. Cool muted cyan underground ambient light contrasts with restrained warm amber lantern light. No visible sky, no Ordo, Irene or Sera, no corpse, no damaged bodies, no combat effects, no open chest hatch, no readable writing. Show the quiet weight of returning after defeat and being refused passage again.
+```
+
 **pre_w41「階段の前の宰相」** (主との対面 / 宰相モルデン。戦いの前)
 - 要点: 大伽藍のいちばん奥、さらに下へ降りる石段の手前に小さな書見台。痩せた長身の宰相モルデンが細い筆で木札に名を書き終え、筆を置き、札を灯籠に結んで振り返る。足もとに名札つきの濁った灯籠が行儀よく並ぶ (湖の札・灯籠の山の足跡・壁龕の名と同じ手)。石段の前の石は、三百年立ち続けた足の形にすり減っている。「ここから先へは、行かせません」。敵意ではなく、静かな拒み。
 - 描くもの: 書見台・筆・木札 / 名札つきの灯籠の列 / 石段の前に立つモルデン (正典の顔、胸の扉は閉じている) / 手前に立つ弟子と隊の後ろ姿。描かないもの: 師。底のものの正体 (光だけ)。

diff --git a/art/story-review/review/status.md b/art/story-review/review/status.md
@@ -2,7 +2,7 @@
 
 書き出し: `node tools/storyart/review.mjs` (build.py も書き直す。手で直さない)。
 
-場面: 出荷済み 128 ・ 出荷済み (任意の修正あり) 11 ・ 未着手 (指示あり) 5
+場面: 出荷済み 129 ・ 出荷済み (任意の修正あり) 11 ・ 未着手 (指示あり) 5
 
 | 章 | 場面 | 題 | 状態 | 確認ページ |
 |---|---|---|---|---|
@@ -131,6 +131,7 @@
 | 第10章「地底大空洞」 | `w40_eyes` | それでも、底へ | 出荷済み | [見る](chapter10.md#w40_eyes) |
 | 第10章「地底大空洞」 | `report_w40` | 三百年の墓守 | 出荷済み | [見る](chapter10.md#report_w40) |
 | 第10章「地底大空洞」 | `pre_w41` | 階段の前の宰相 | 出荷済み | [見る](chapter10.md#pre_w41) |
+| 第10章「地底大空洞」 | `pre_w41_retry` | ふたたび階段の前で | 出荷済み | [見る](chapter10.md#pre_w41_retry) |
 | 第10章「地底大空洞」 | `mem_w41` | 階段の前のふたり | 出荷済み | [見る](chapter10.md#mem_w41) |
 | 第10章「地底大空洞」 | `report_w41` | 王の資格 | 出荷済み | [見る](chapter10.md#report_w41) |
 | 第10章「地底大空洞」 | `irene_candle` | 消せない灯 | 出荷済み | [見る](chapter10.md#irene_candle) |

diff --git a/docs/story-art-plan.md b/docs/story-art-plan.md
@@ -1,5 +1,9 @@
 # ストーリー専用イラストの制作台帳
 
+## 宰相への再挑戦「ふたたび階段の前で」 (2026-10-16)
+
+`pre_w41_retry` の原画と専用WebPを追加。初対面と同じ大伽藍で、置かれた細筆と少し厚くなった木札の束、戻ってきた弟子たちを迎えるモルデンを描く。初対面の `pre_w41` と画像・語りの既読記録を分け、再挑戦の語りを聞くとストーリー一覧からも読める。確認ページは `art/story-review/review/chapter10.md`。
+
 ## 館の語り6場面 (2026-10-16)
 
 `irene_boons`「手がかりの恵み」、`irene_undercity`「灯の高さ」、`irene_furnace`「火の洞へ」、`irene_abyss`「落ち続ける灯」、`irene_coat`「師の外套」、`irene_frozen`「受け止める手」の専用イラストと一覧の場面を追加。原画は1536×1024、出荷用は品質88のWebP。語りを聞いた記録で一覧を解放し、イベントと同じ絵を表示する。
